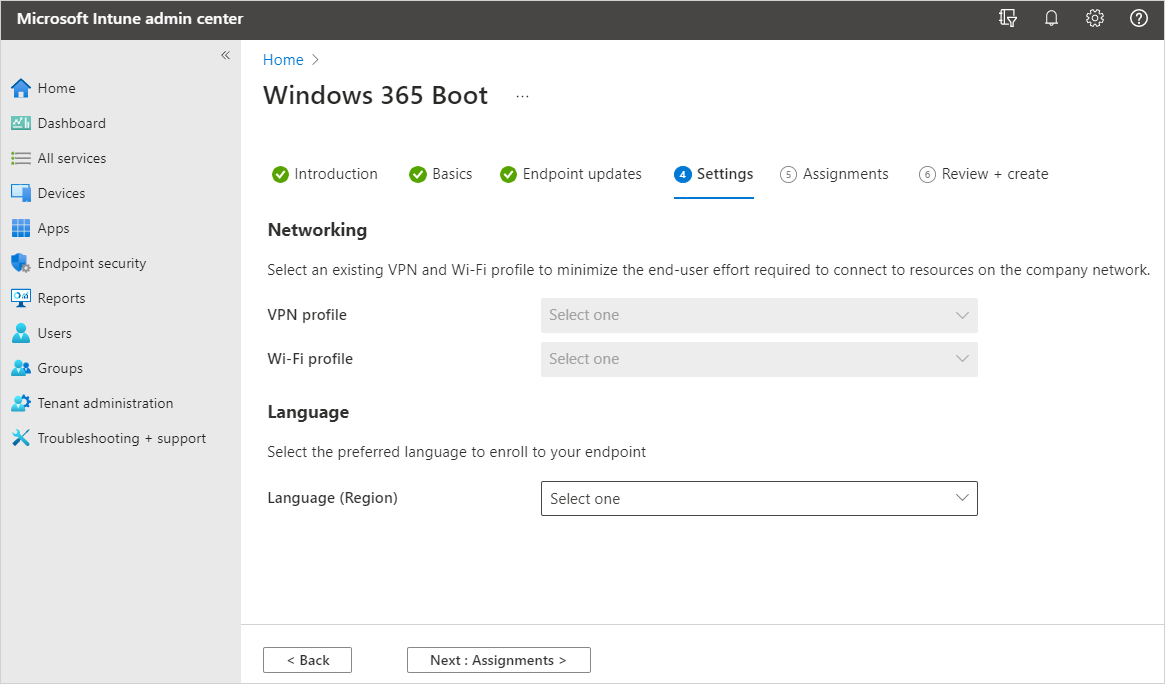
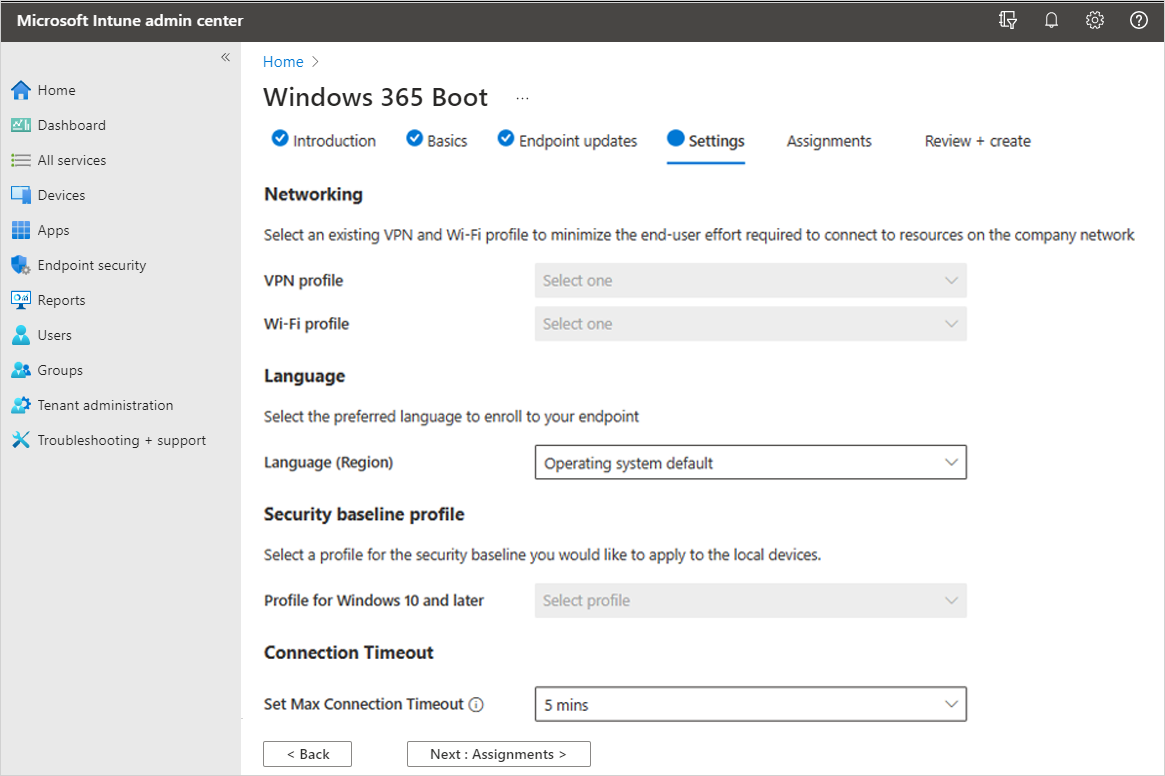
43305609 boo ga guide

diff --git a/Windows365/enterprise/windows-365-boot-guide.md b/Windows365/enterprise/windows-365-boot-guide.md
@@ -76,7 +76,7 @@ Choose how your devices are named when they enroll, and choose the prefix of all
      - Can use the %SERIAL% macro to add a hardware-specific serial number.
      - Can use the %RAND:x% macro to add a random string of characters, where x equals the number of characters to add.
 
-   - **Resource name prefix**: When you deploy this guided scenario, several resources are automatically created. To distinguish the items used in this deployment, add a prefix:
+   - **Resource name prefix**: When you deploy this guided scenario, several resources are automatically created. To distinguish the items used in this deployment, add a prefix.
 
 2. **Enter a resource prefix name**: Enter some text to put at the beginning of the items created. For example, enter `Windows 365 Boot`. All resources created will be named something like **Windows 365 Boot Azure Virtual Desktop (HostApp)**.
 
@@ -96,6 +96,8 @@ Windows 365 Boot supports [Windows Autopatch](/windows/deployment/windows-autopa
 
 1. (Optional) On the **Settings** page, select the **VPN profile** and **Wifi profile** to use for Windows 365 Boot physical devices.
 2. (Optional) If you don't want to use the operating system's default language, select a specific **Language (region)** > **Next: Assignments**.
+3. (Optional) Select the **Security baseline profile** to use for Windows 365 Boot physical devices.
+4. (Optional) Select a value for the **Set the maximum connection timeout value** for Windows 365 Boot. The operating system will wait for a connection until the selected timeout value has been reached. For more information, see [SetMaxConnectionTimeout policy CSP](/windows/client-management/mdm/policy-csp-clouddesktop#setmaxconnectiontimeout).
 
 ## Step 5 - Assignments
 
